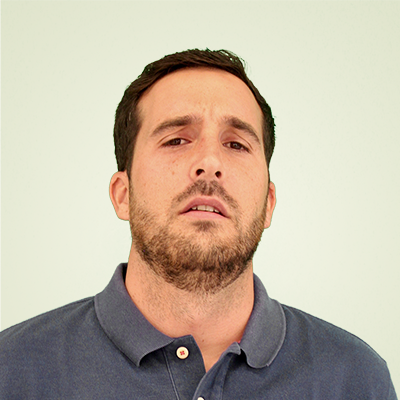
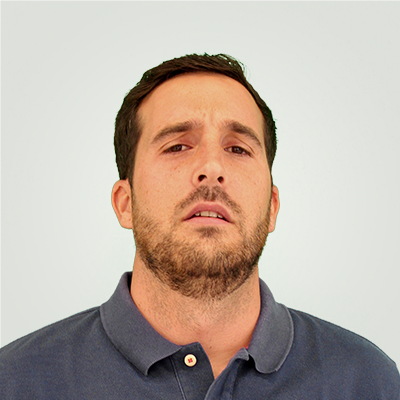
New puctires and minor changes to CSS

diff --git a/_includes/team.html b/_includes/team.html
@@ -120,7 +120,7 @@
         <h2 >We are hiring!</h2>
         <h4>We are always looking for talented people, so don't be shy!</h4>
         <div>
-            <p>Send your cover letter and CV to <a style="color:#310e41" href="mailto:info@shapelets.io">info@shapelets.io</a></p>
+            <p>Send your cover letter and CV to <a class="email-violet" href="mailto:info@shapelets.io">info@shapelets.io</a></p>
         </div>
     </div>
 </section>

diff --git a/css/landing-page.css b/css/landing-page.css
@@ -47,6 +47,16 @@ a.email {
     color: #f8f8f8;
 }
 
+a.email-violet {
+    color: #7b6fbb;
+    text-decoration: none;
+}
+
+a.email-violet:hover {
+    color: #4d3d7d;
+    text-decoration: none;
+}
+
 a.email:hover {
     font-family: 'Open Sans', sans-serif;
     font-weight: 100;

diff --git a/css/team.css b/css/team.css
@@ -161,7 +161,7 @@ a.get-started-button.about {
     right: 80%; }
 
 .team-member h4 {
-    color: #D5C47D;
+    color: #555;
     font-size: 1.125em;
     font-weight: 700;
     margin-bottom: 0.1em; }
